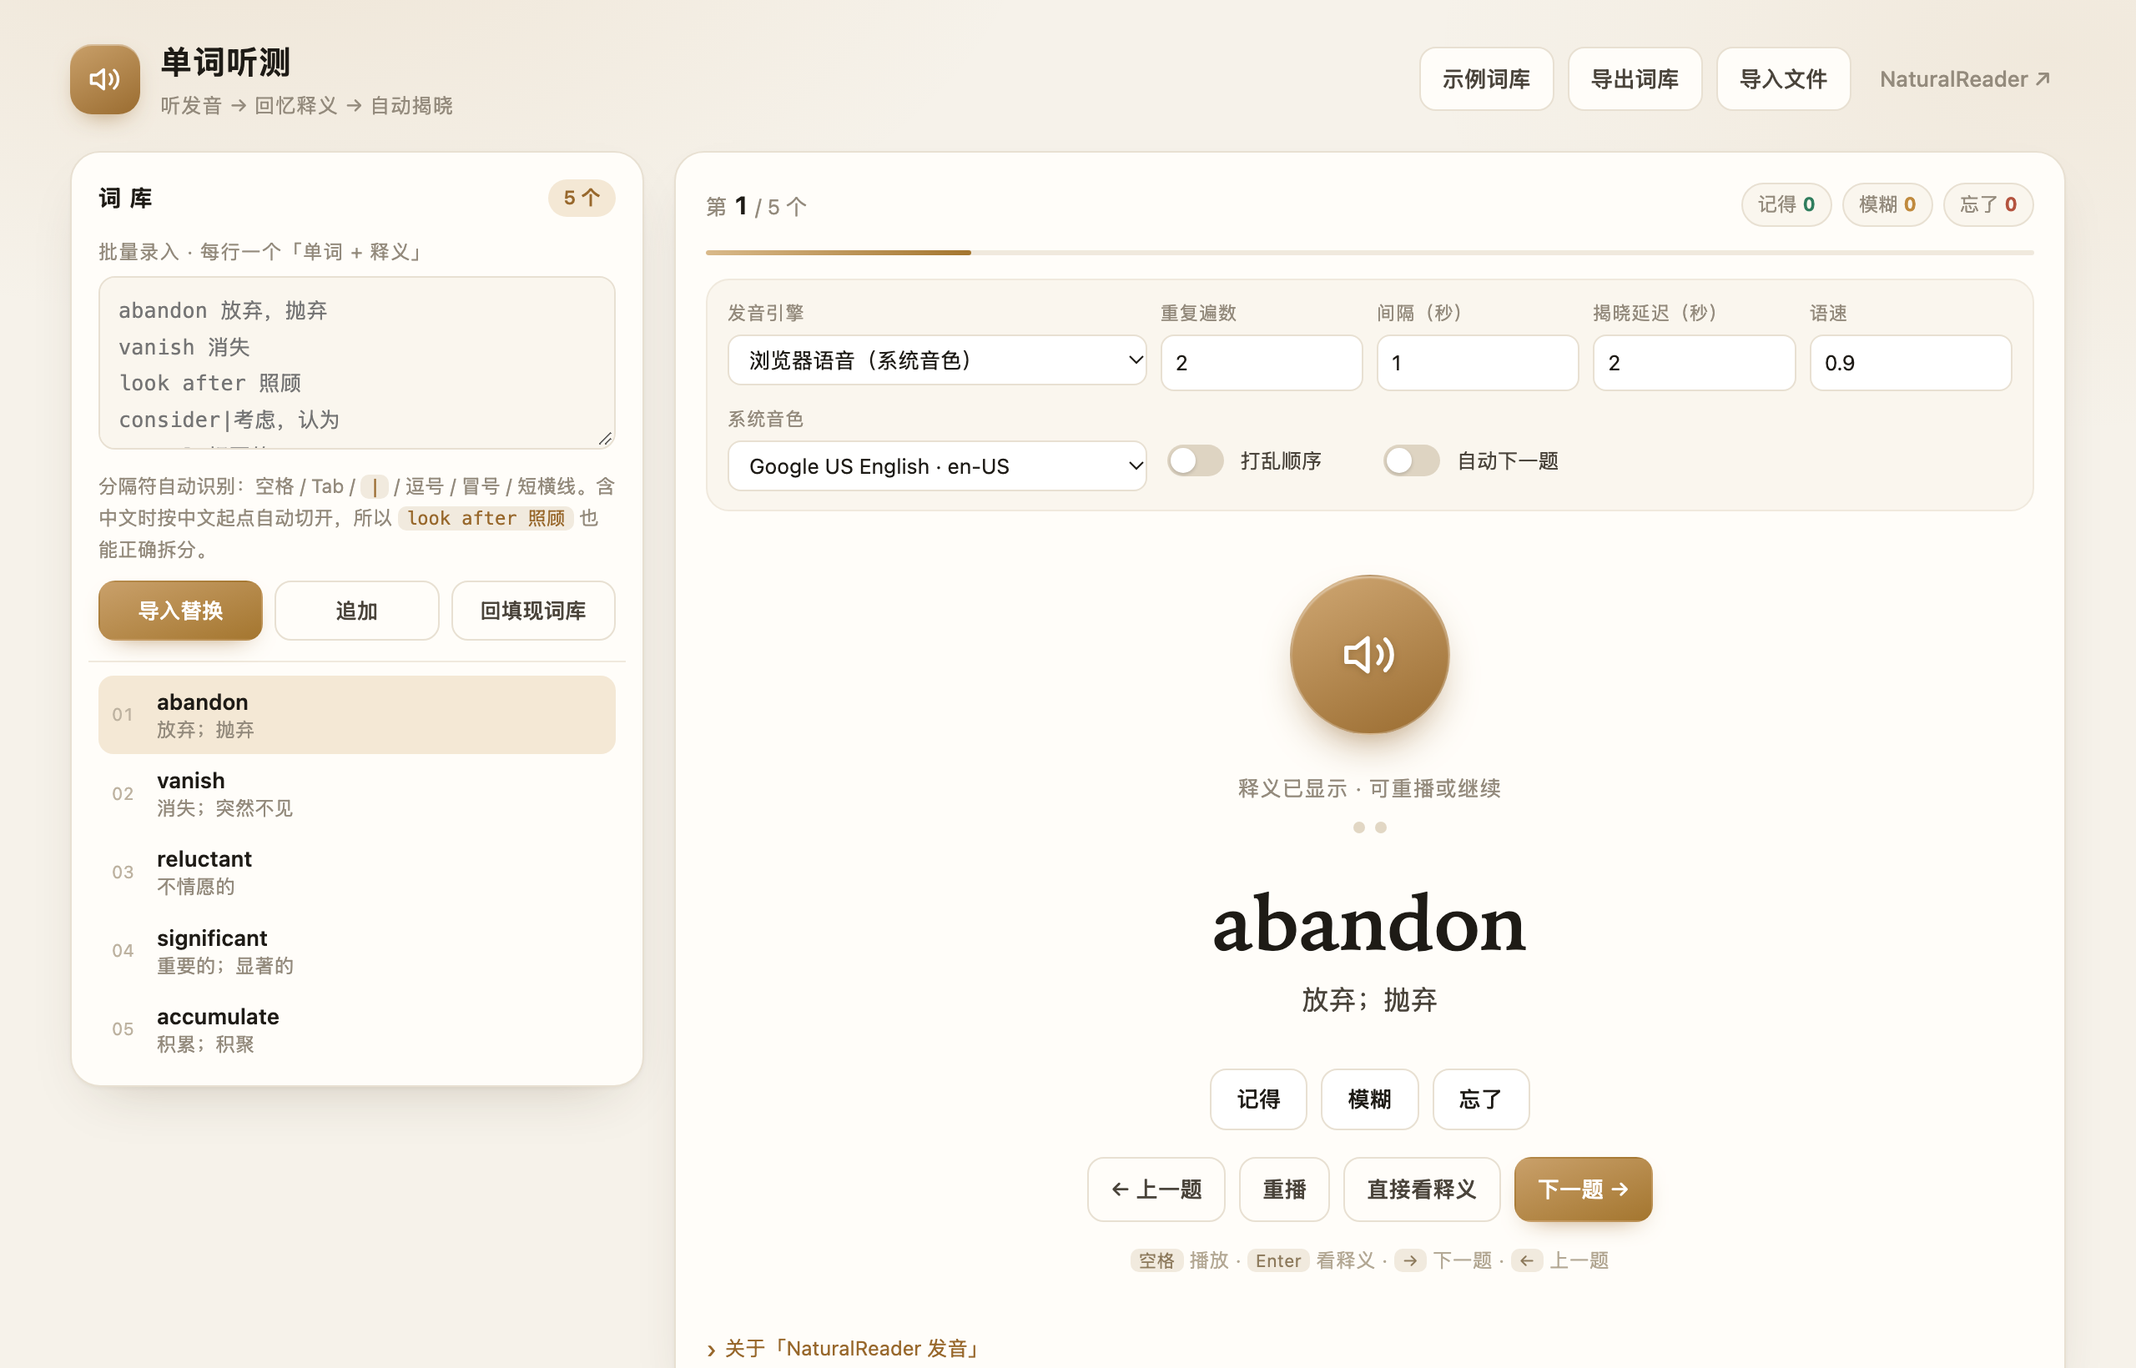
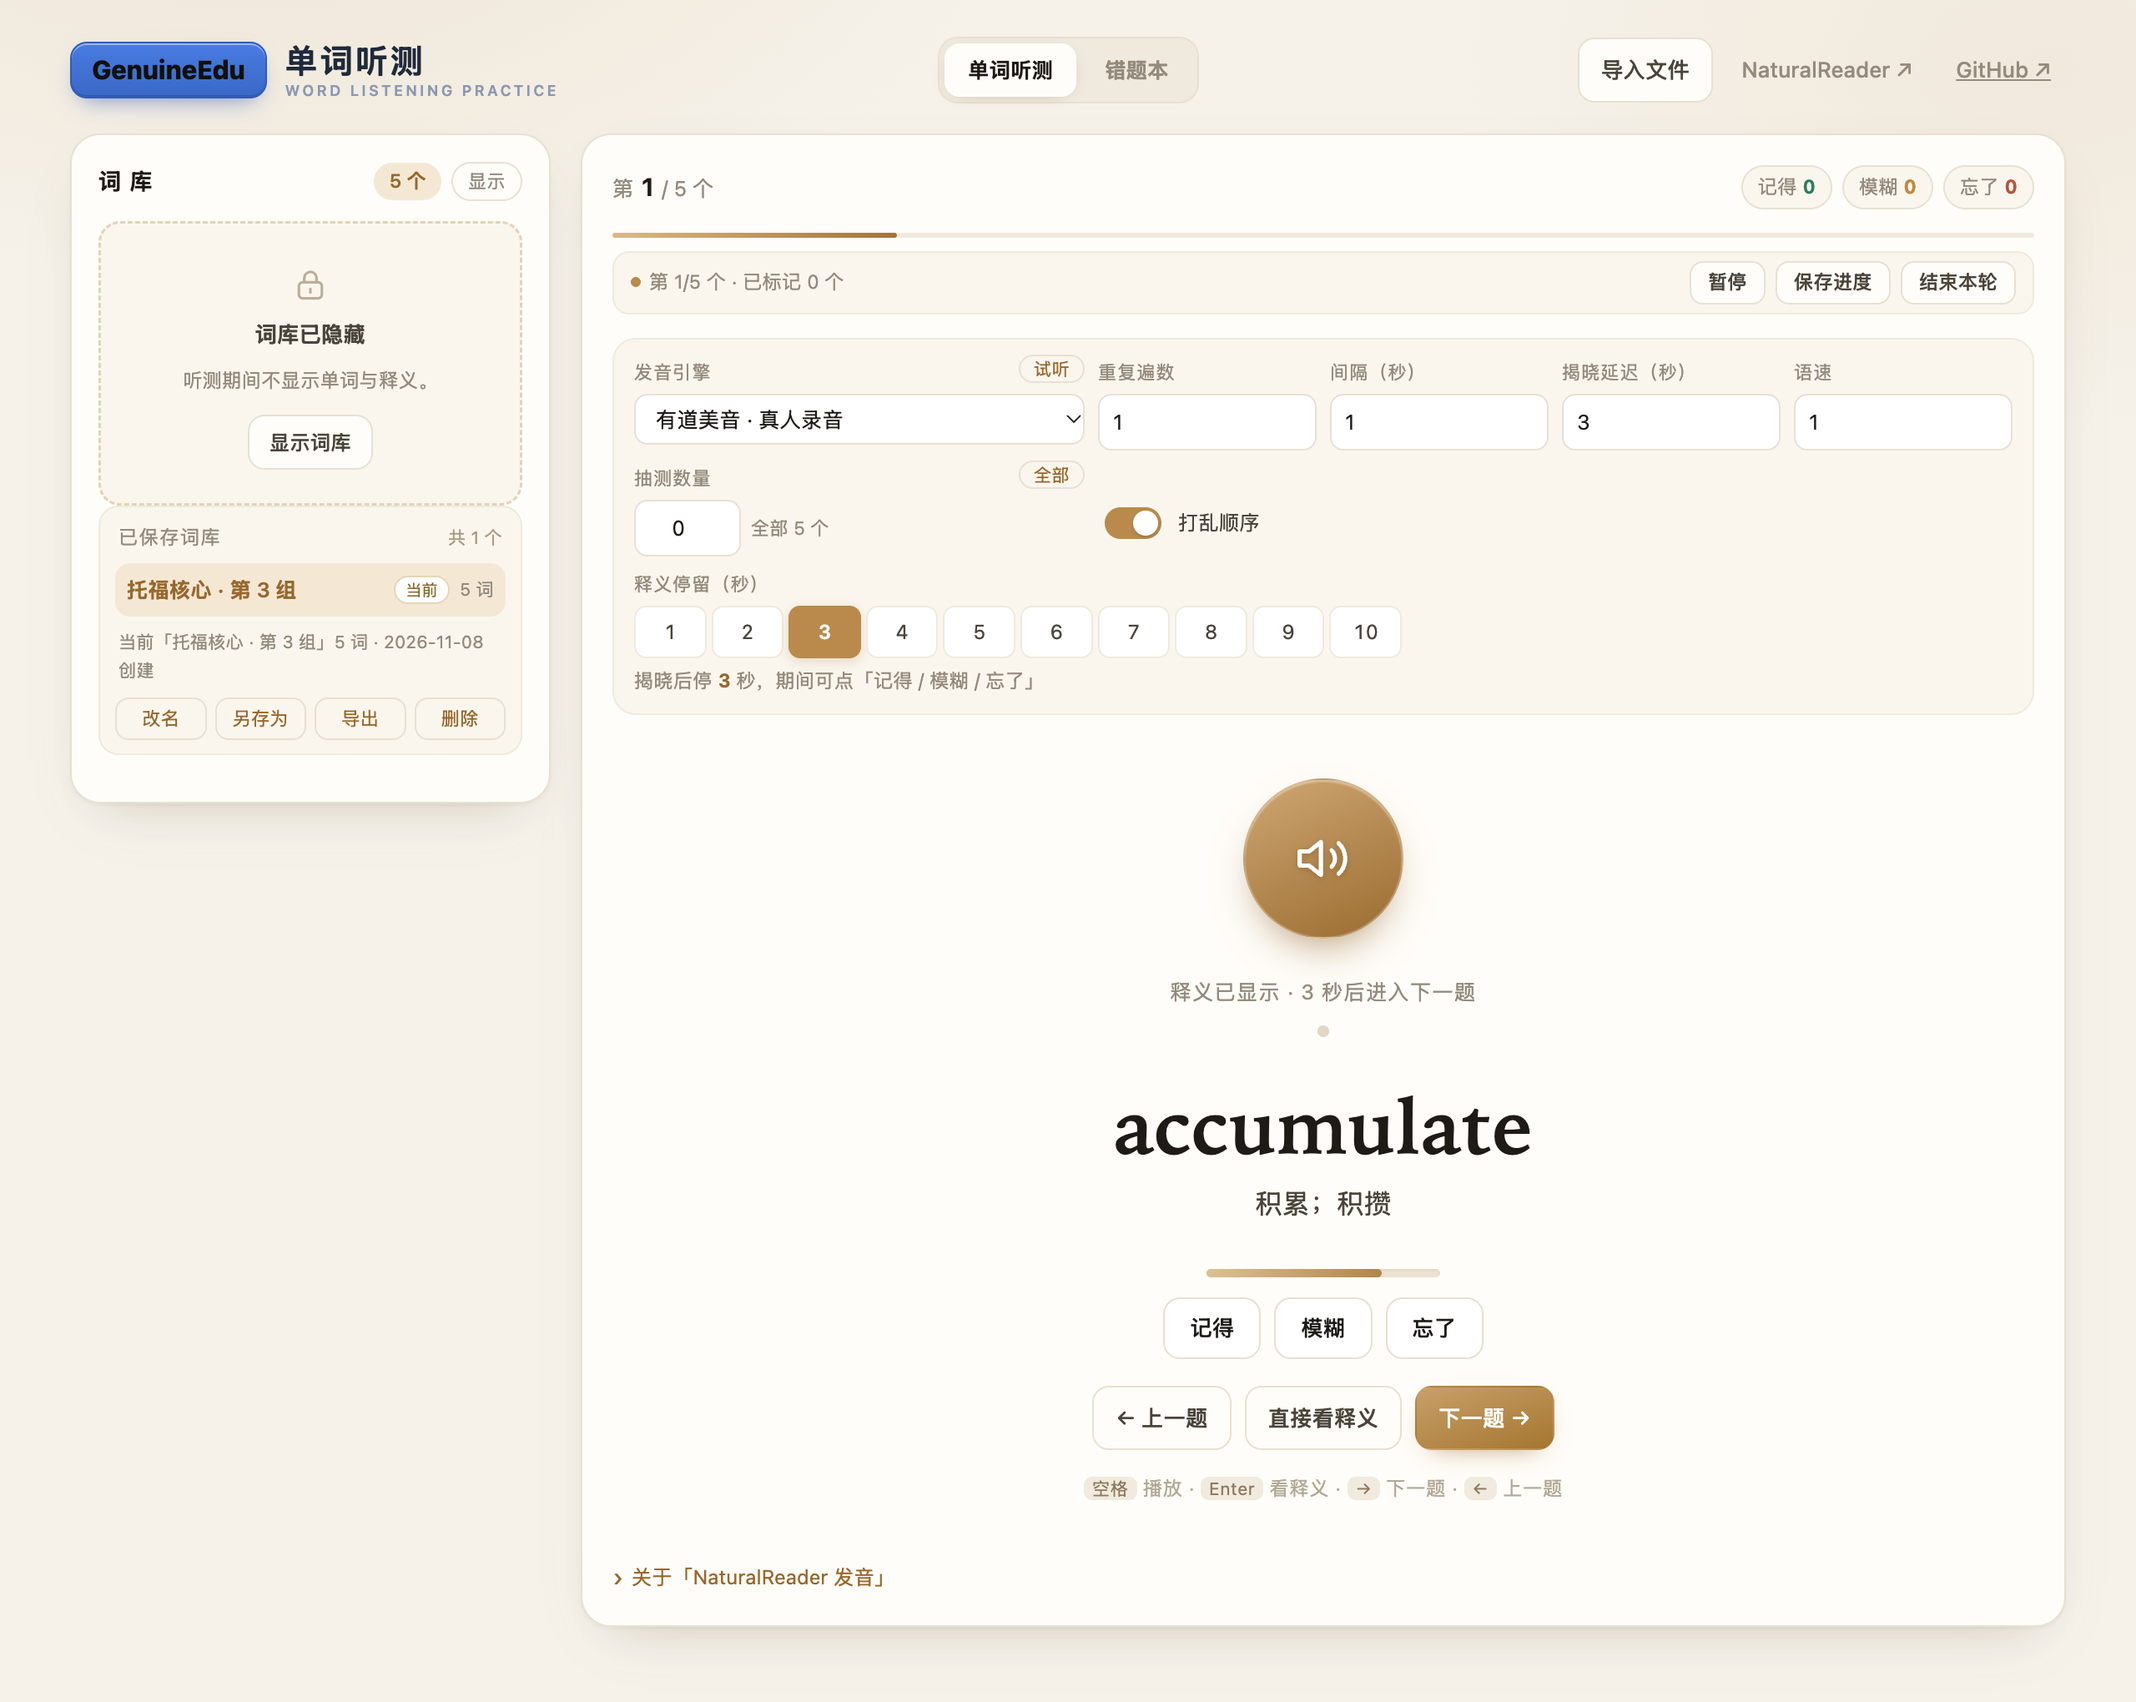
feat(brand): 顶栏品牌区改为 GenuineEdu 蓝色徽标 +「单词听测」+ WORD LISTENING PRACTICE（对齐参考设计）；同步重拍 README 预览图与演示图

diff --git a/index.html b/index.html
@@ -51,15 +51,18 @@ input,select,textarea{font:inherit;color:inherit}
 /* ============ 布局 ============ */
 .app{max-width:1240px;margin:0 auto;padding:22px 22px 44px}
 .topbar{display:flex;align-items:center;justify-content:space-between;gap:16px;margin-bottom:18px;flex-wrap:wrap}
-.brand{display:flex;align-items:center;gap:12px}
+.brand{display:flex;align-items:center;gap:11px}
+/* 品牌徽标：蓝色圆角胶囊 + 黑色字重（对齐 GenuineEdu 视觉规范） */
 .logo{
-  width:42px;height:42px;border-radius:13px;flex:0 0 auto;
-  background:linear-gradient(150deg,#c9a06a,#9a6c30);
-  display:grid;place-items:center;color:#fff;
-  box-shadow:0 6px 16px -8px rgba(154,108,48,.9),inset 0 1px 0 rgba(255,255,255,.35);
+  display:inline-flex;align-items:center;justify-content:center;flex:0 0 auto;
+  height:34px;padding:0 12px;border-radius:10px;
+  font-size:15.5px;font-weight:800;letter-spacing:-.005em;line-height:1;color:#12100c;
+  background:linear-gradient(180deg,#4a7ce2 0%,#4173d4 46%,#3a68c8 100%);
+  border:1px solid #2f5dbd;
+  box-shadow:0 6px 14px -7px rgba(47,93,189,.75),inset 0 1px 0 rgba(255,255,255,.45),inset 0 -1px 0 rgba(0,0,0,.14);
 }
-.brand h1{margin:0;font-size:19px;letter-spacing:.02em;font-weight:650;white-space:nowrap}
-.brand p{margin:1px 0 0;font-size:12px;color:var(--muted);letter-spacing:.03em}
+.brand h1{margin:0;font-size:19.5px;letter-spacing:.06em;font-weight:700;white-space:nowrap;color:#1f2a3b;line-height:1.15}
+.brand p{margin:2px 0 0;font-size:9px;font-weight:600;color:#8b98b1;letter-spacing:.16em;line-height:1.1;white-space:nowrap}
 .top-actions{display:flex;gap:8px;align-items:center;flex-wrap:wrap}
 .btn{
   display:inline-flex;align-items:center;gap:6px;
@@ -577,6 +580,11 @@ body.adj-open #toast{bottom:250px}
   #revealStayHint{grid-column:1 / -1;padding-top:3px}
 }
 @media (max-width:520px){
+  /* 窄屏品牌区：胶囊、标题、英文副标题都收一档，别顶到屏幕边 */
+  .brand{gap:9px}
+  .logo{height:31px;padding:0 10px;border-radius:9px;font-size:14px}
+  .brand h1{font-size:18px;letter-spacing:.04em}
+  .brand p{font-size:8.5px;letter-spacing:.11em}
   .settings{grid-template-columns:repeat(2,minmax(0,1fr))}
   .set.wide{grid-column:span 2}
   /* 手机上停留秒数排成 5 个一行，按钮大一点好点 */
@@ -728,12 +736,10 @@ body.adj-open #toast{bottom:250px}
 
   <header class="topbar">
     <div class="brand">
-      <div class="logo">
-        <svg width="20" height="20" viewBox="0 0 24 24" fill="none" stroke="currentColor" stroke-width="2" stroke-linecap="round" stroke-linejoin="round"><path d="M11 5 6 9H2v6h4l5 4V5z"/><path d="M15.5 8.5a5 5 0 0 1 0 7"/><path d="M18.5 5.5a9 9 0 0 1 0 13"/></svg>
-      </div>
+      <span class="logo">GenuineEdu</span>
       <div>
-        <h1>GenuineEdu-单词听测</h1>
-        <p>听音回忆 · 错题归档</p>
+        <h1>单词听测</h1>
+        <p>WORD LISTENING PRACTICE</p>
       </div>
     </div>
     <div class="tabs" id="tabs">
